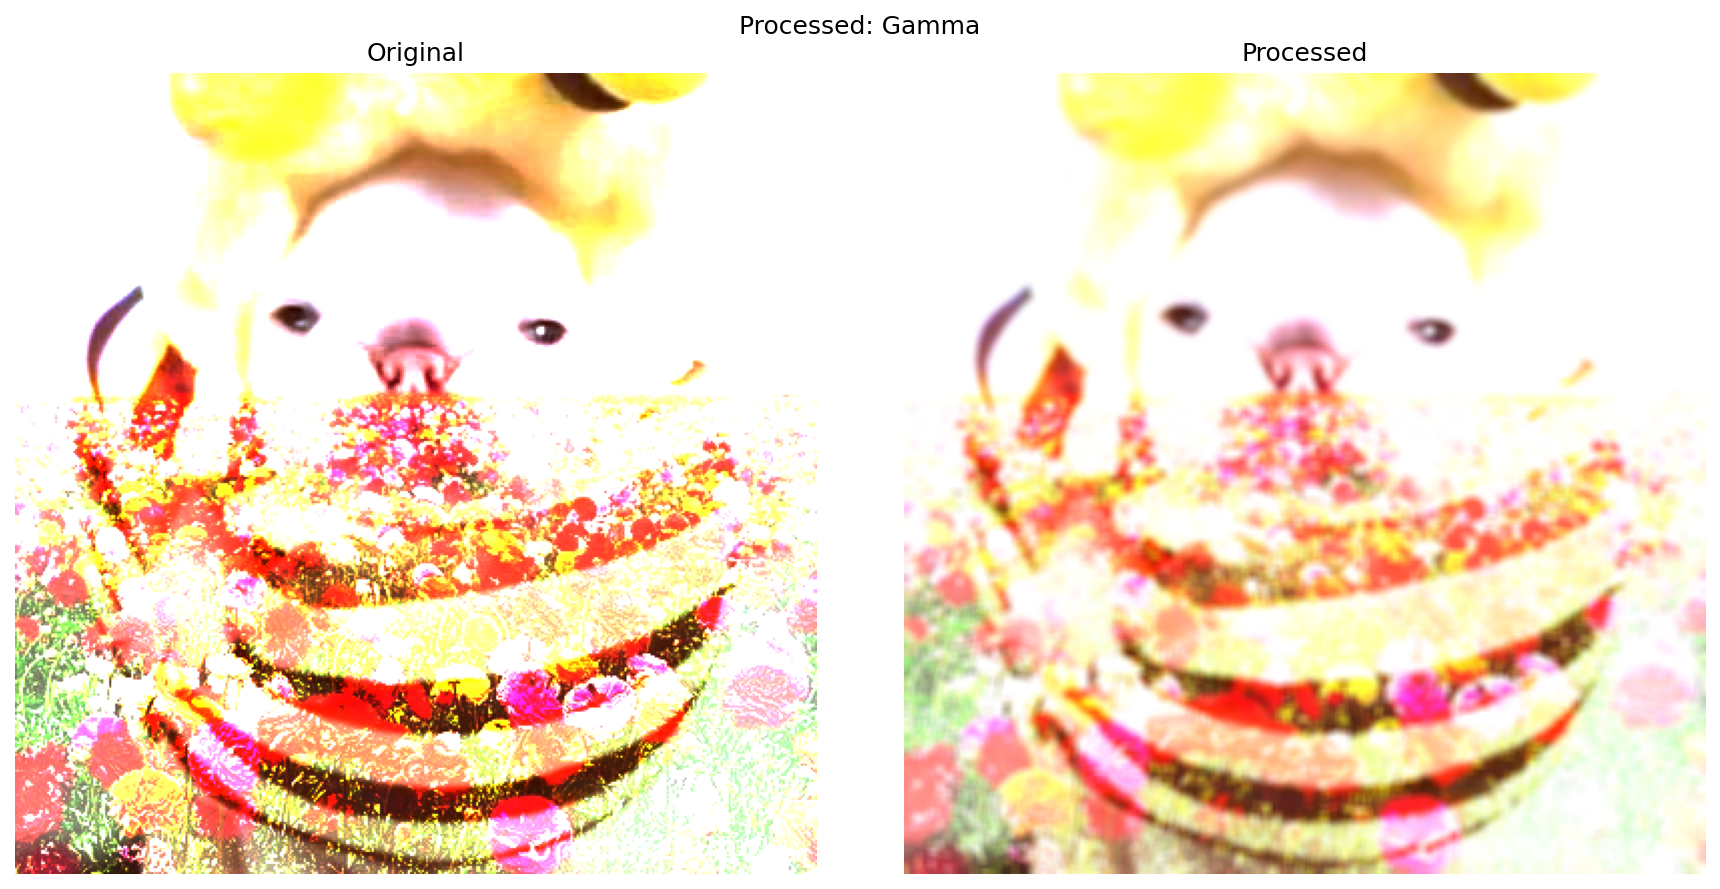
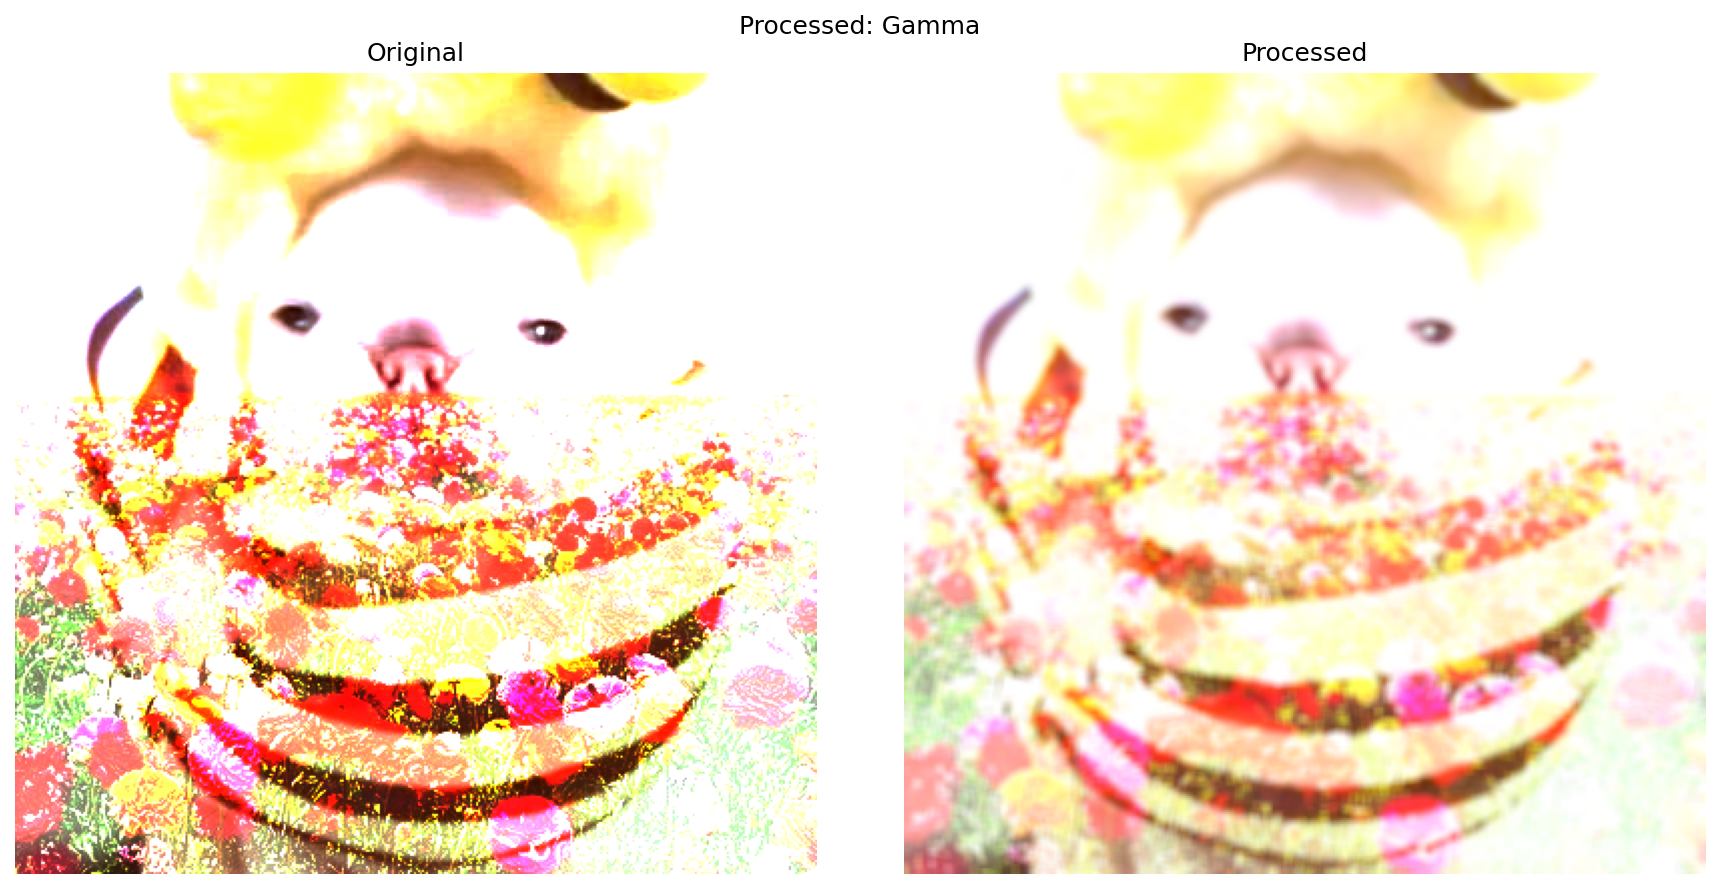
changed gamma

diff --git a/main.py b/main.py
@@ -25,7 +25,7 @@ def remove_noise(image):
     return blurred.astype(np.float32)
 
 
-def gamma_correction(image, gamma_value=0.8):
+def gamma_correction(image, gamma_value=0.6):
 
     C = np.power(image, gamma_value)
     return np.clip(C, 0.0, 1.0).astype(np.float32)